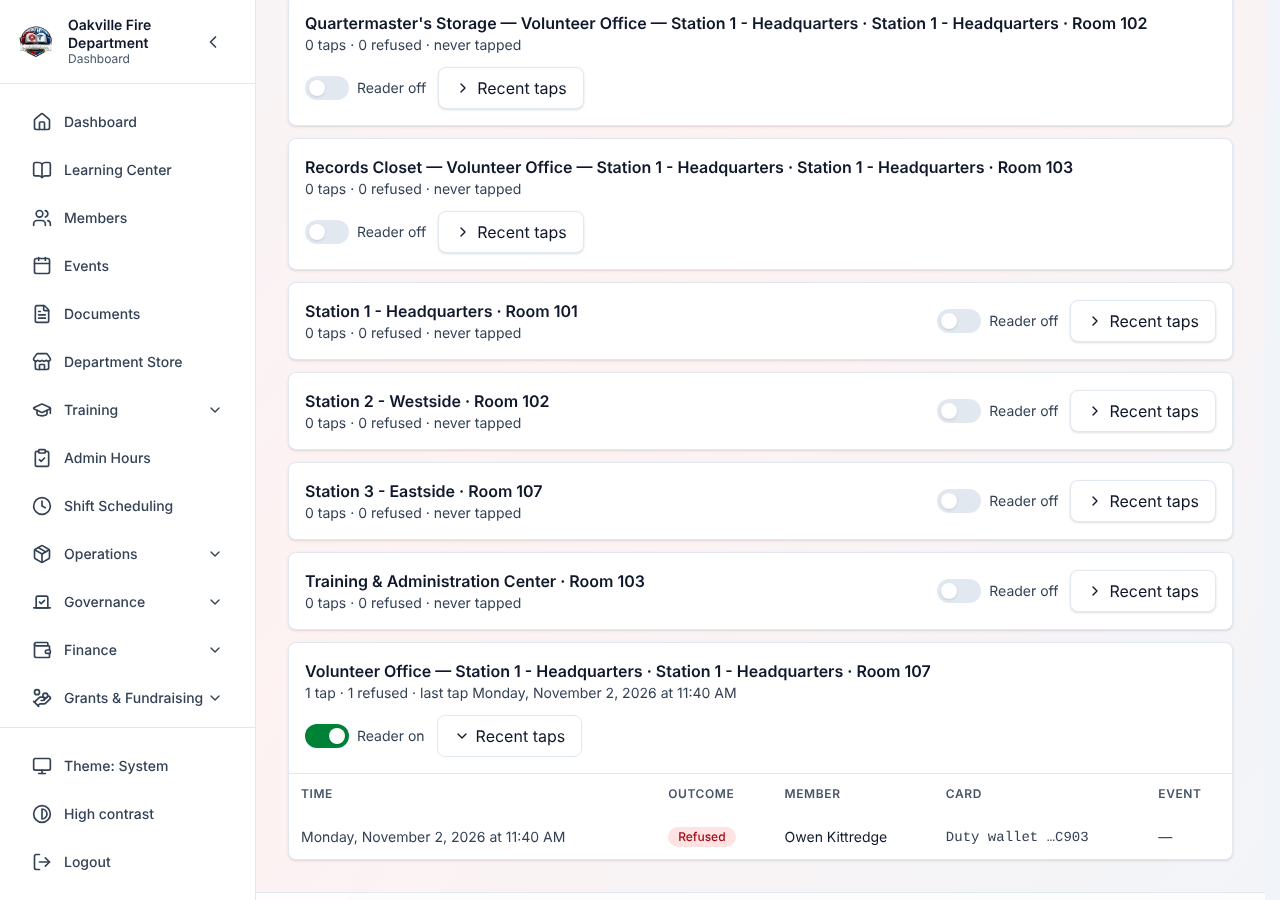
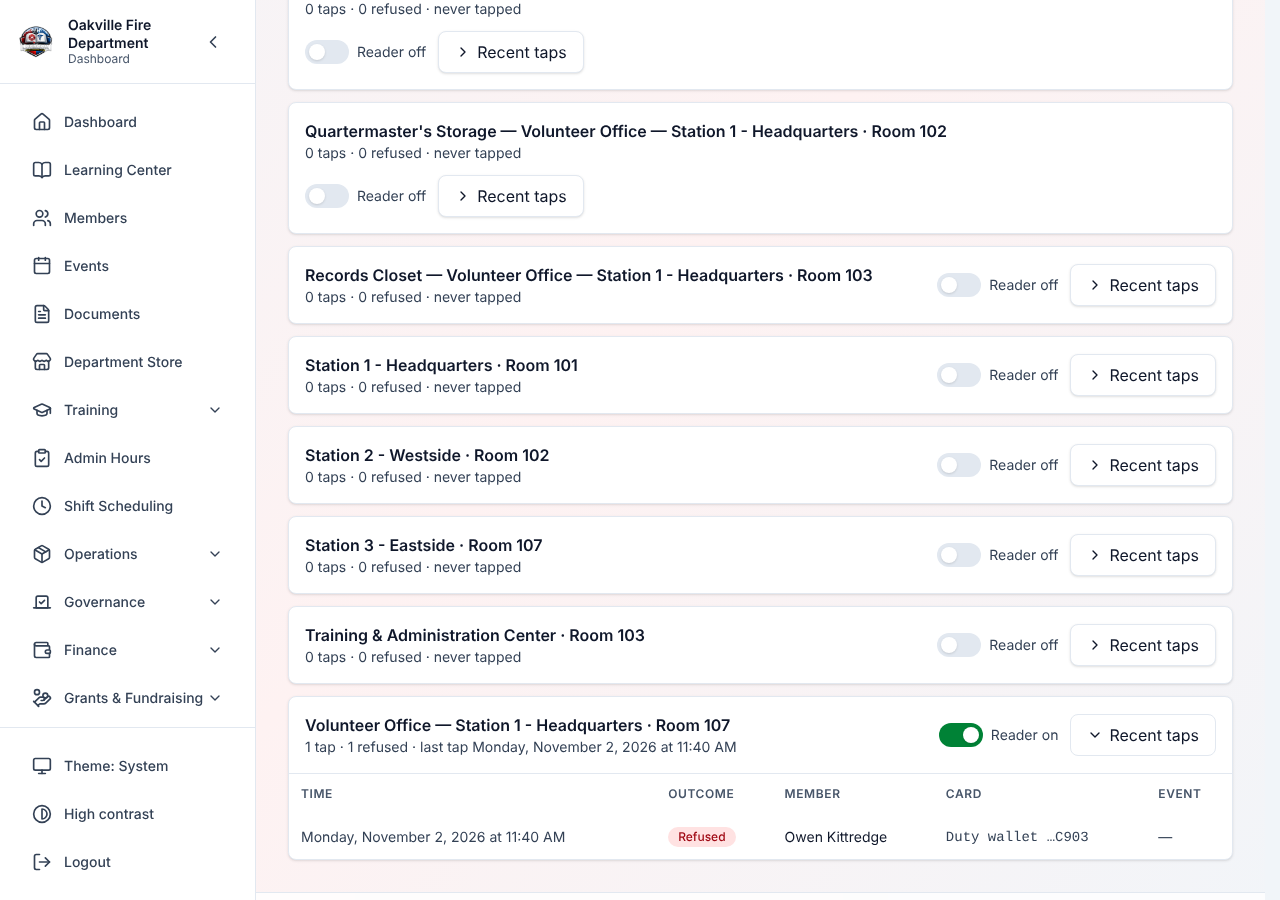
Card Readers: use the shared location label helper; re-shoot its images
#4057 gave CardReadersPage its own copy of the "building already in the
name" rule, and #4062 then added buildingNotInName() in
utils/locationLabel.ts for the location pickers. Card Readers now calls
the shared helper, so the rule has one definition. Behaviour is
unchanged; CardReadersPage.test.tsx's repeated-building test still
covers it.

Re-shoots 06-36-card-readers and 04-92-card-readers, which pictured the
repeated building, and marks the item fixed in SCREENSHOT_CURRENCY.md.

Claude-Session: https://claude.ai/code/session_01AAxg2m8MQwbqUdnVKSTT72

Changed region(s): [[0.2188, 0.0, 0.9688, 0.84], [0.8438, 0.8089, 0.9375, 0.84], [0.7188, 0.8089, 0.8125, 0.84]]

diff --git a/frontend/src/pages/CardReadersPage.tsx b/frontend/src/pages/CardReadersPage.tsx
@@ -26,21 +26,16 @@ import { locationsService } from '../services/api';
 import { nfcActivityService } from '../services/nfcActivityService';
 import { formatDateTime, formatNumber } from '../utils/dateFormatting';
 import { getErrorMessage } from '../utils/errorHandling';
+import { buildingNotInName } from '../utils/locationLabel';
 import { CardTapTable } from '../modules/membership/components/CardTapTable';
 import type { NfcCardTap, NfcReaderList, NfcReaderRoom } from '../modules/membership/types/idCard';
 
 const ROOM_TAPS_PAGE = 25;
 
-// A facility room's location is named "Room — Facility" by the backend
-// (FacilitiesService._room_location_name) and carries that same facility as
-// its building, so appending the building again would print it twice.
-const roomLabel = (room: NfcReaderRoom): string => {
-  const building = room.building?.trim();
-  const named = building && (room.name === building || room.name.endsWith(` — ${building}`));
-  return [room.name, named ? null : building, room.roomNumber ? `Room ${room.roomNumber}` : null]
+const roomLabel = (room: NfcReaderRoom): string =>
+  [room.name, buildingNotInName(room.name, room.building), room.roomNumber ? `Room ${room.roomNumber}` : null]
     .filter(Boolean)
     .join(' · ');
-};
 
 interface RoomTapsProps {
   room: NfcReaderRoom;

diff --git a/docs/training/SCREENSHOT_CURRENCY.md b/docs/training/SCREENSHOT_CURRENCY.md
@@ -215,7 +215,8 @@ code:
   `05-141` re-shot 2026-11-04.
 - Card Readers says "1 taps" and repeats a room's station in its name. "1 taps"
   is **fixed** by #4035 (`06-36`, `04-92` re-shot 2026-11-04); the repeated
-  station is still open.
+  station is **fixed** by #4057, with the location pickers in #4062, and
+  `06-36`, `04-92` re-shot 2026-11-05.
 - The Members roster's Actions column is clipped at 1440px, and the explainer
   above it still describes one "membership type". The Actions column is
   **fixed on main** (#03f21141 and follow-ups; `01-22` re-shot 2026-11-04).
